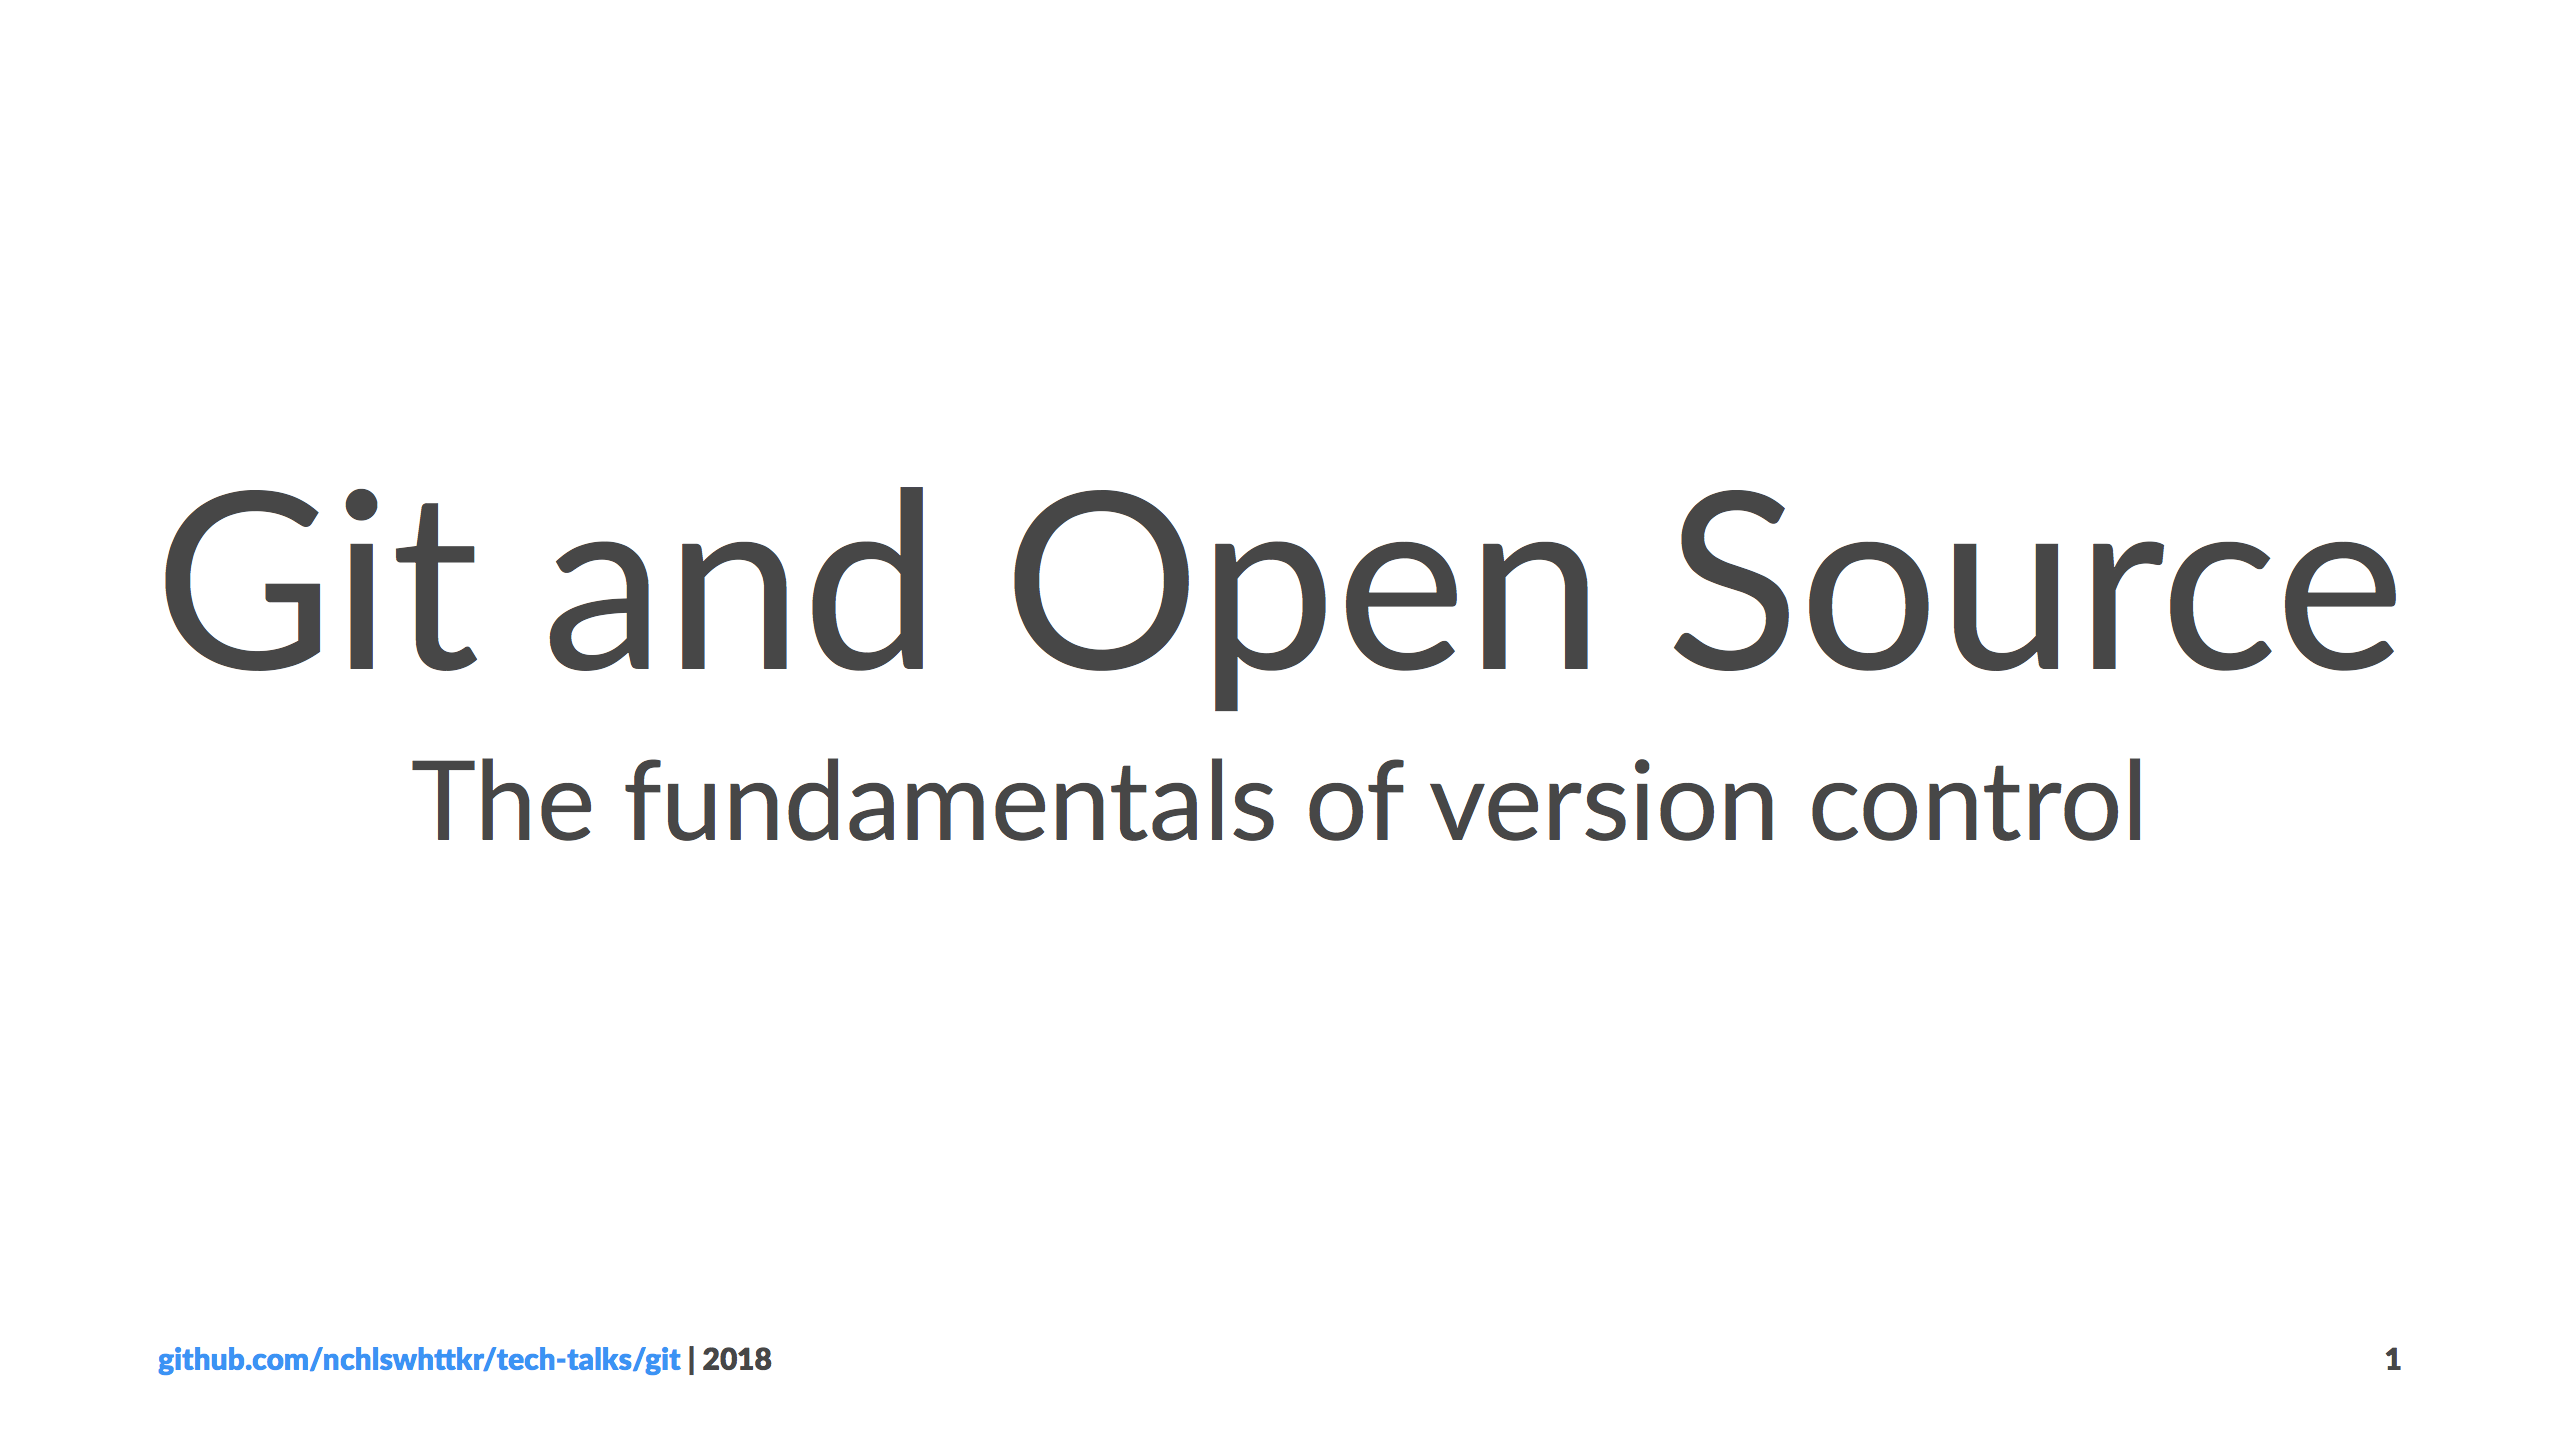
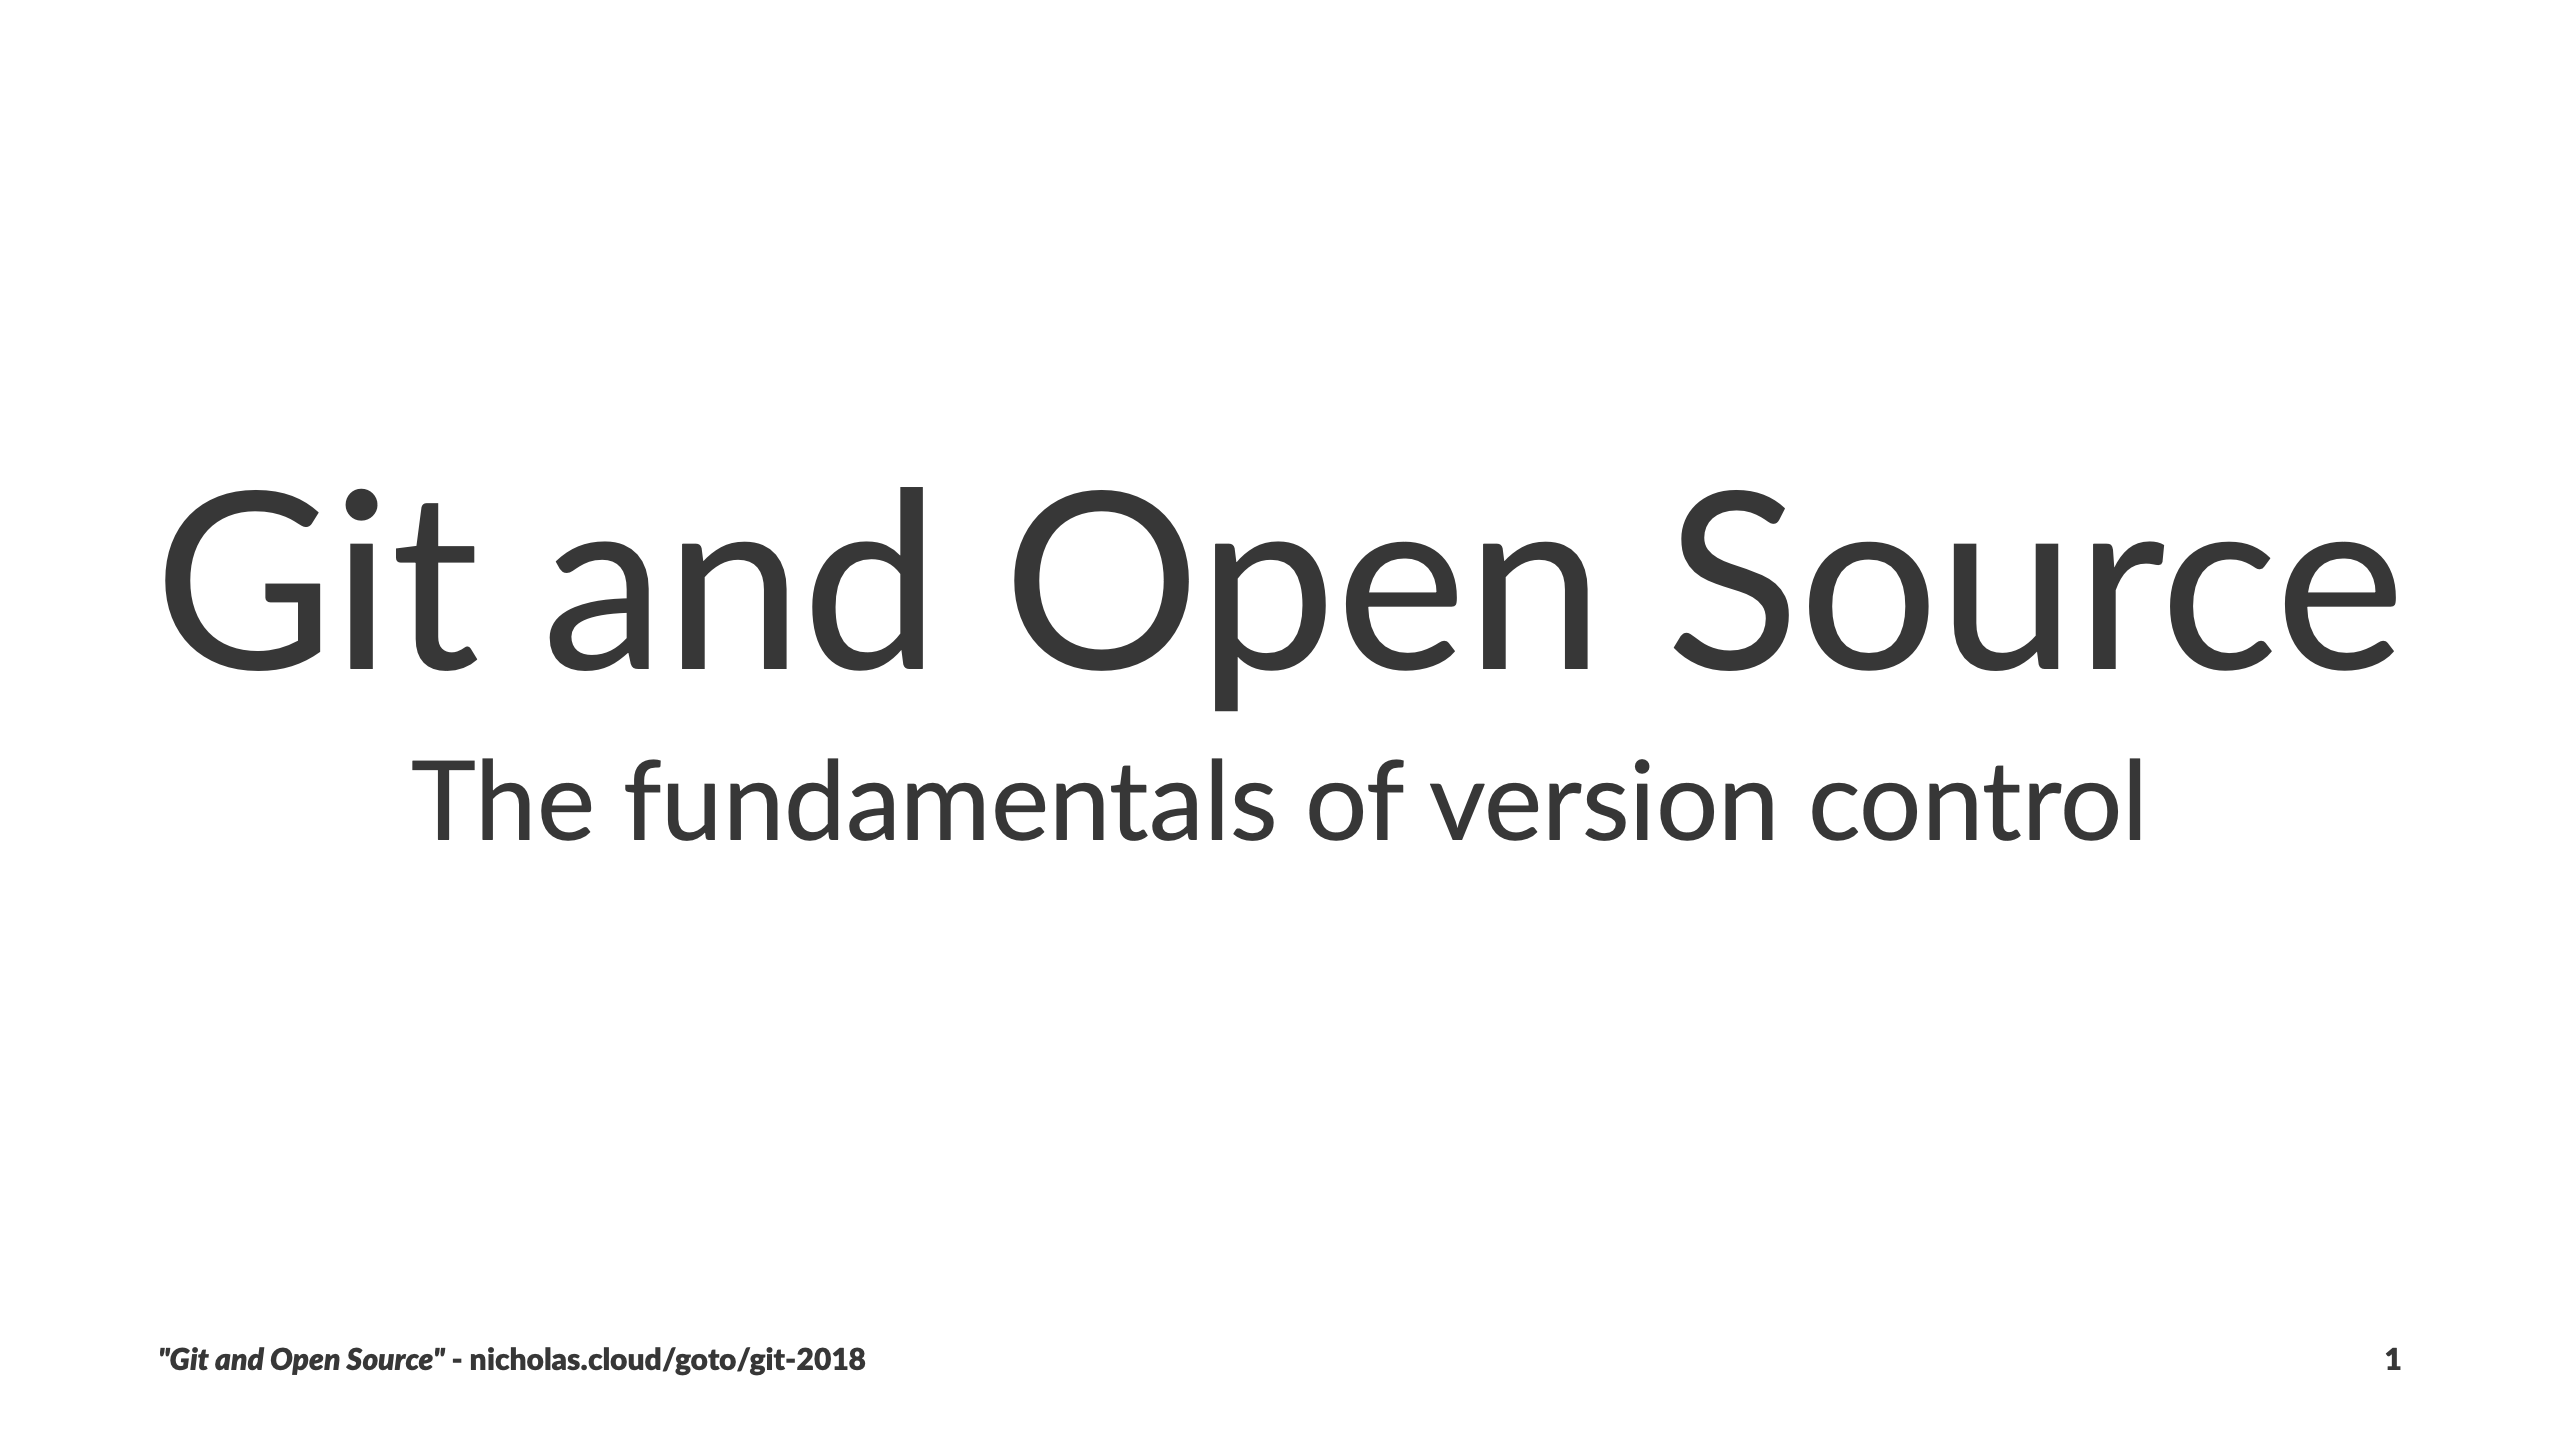
Update slides

Changed region(s): [[0.0625, 0.9375, 0.3438, 0.9688]]

diff --git a/git/presentation.md b/git/presentation.md
@@ -1,5 +1,5 @@
 theme: Plain Jane, 1
-footer: [github.com/nchlswhttkr/tech-talks/git](github.com/nchlswhttkr/tech-talks) | 2018
+footer: _"Git and Open Source"_ - nicholas.cloud/goto/git-2018
 slidenumbers: true
 
 # [fit] Git and Open Source
